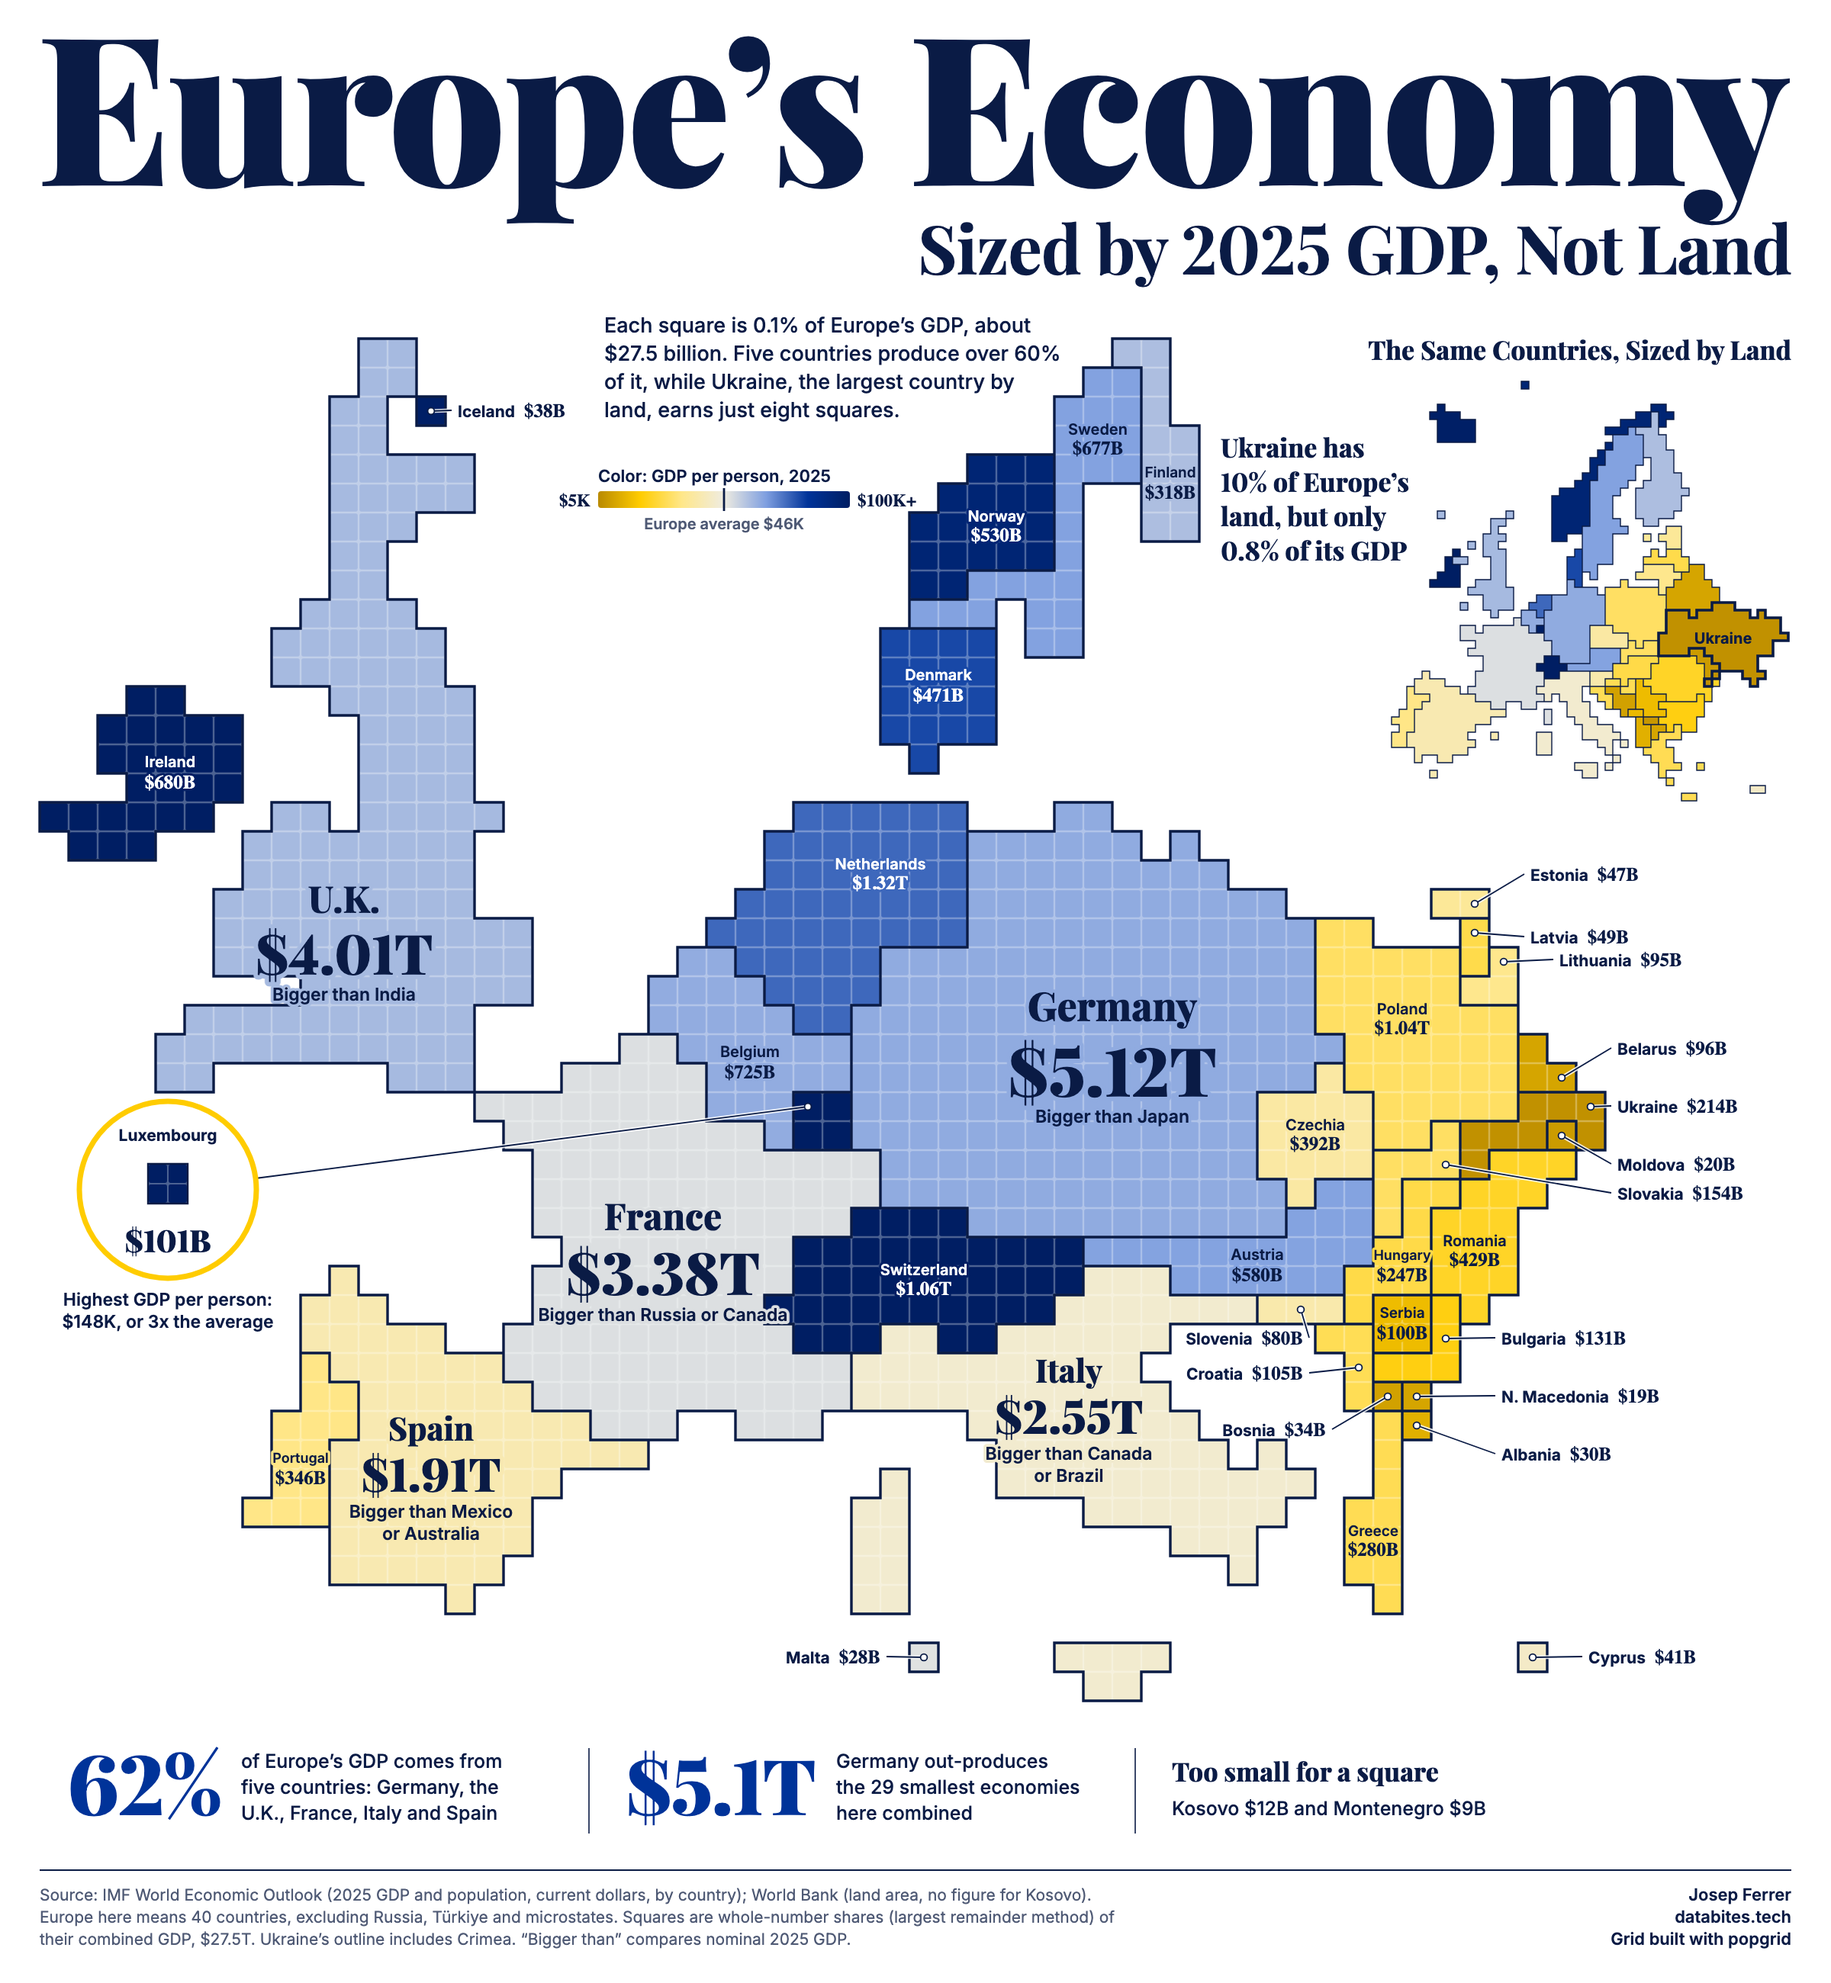
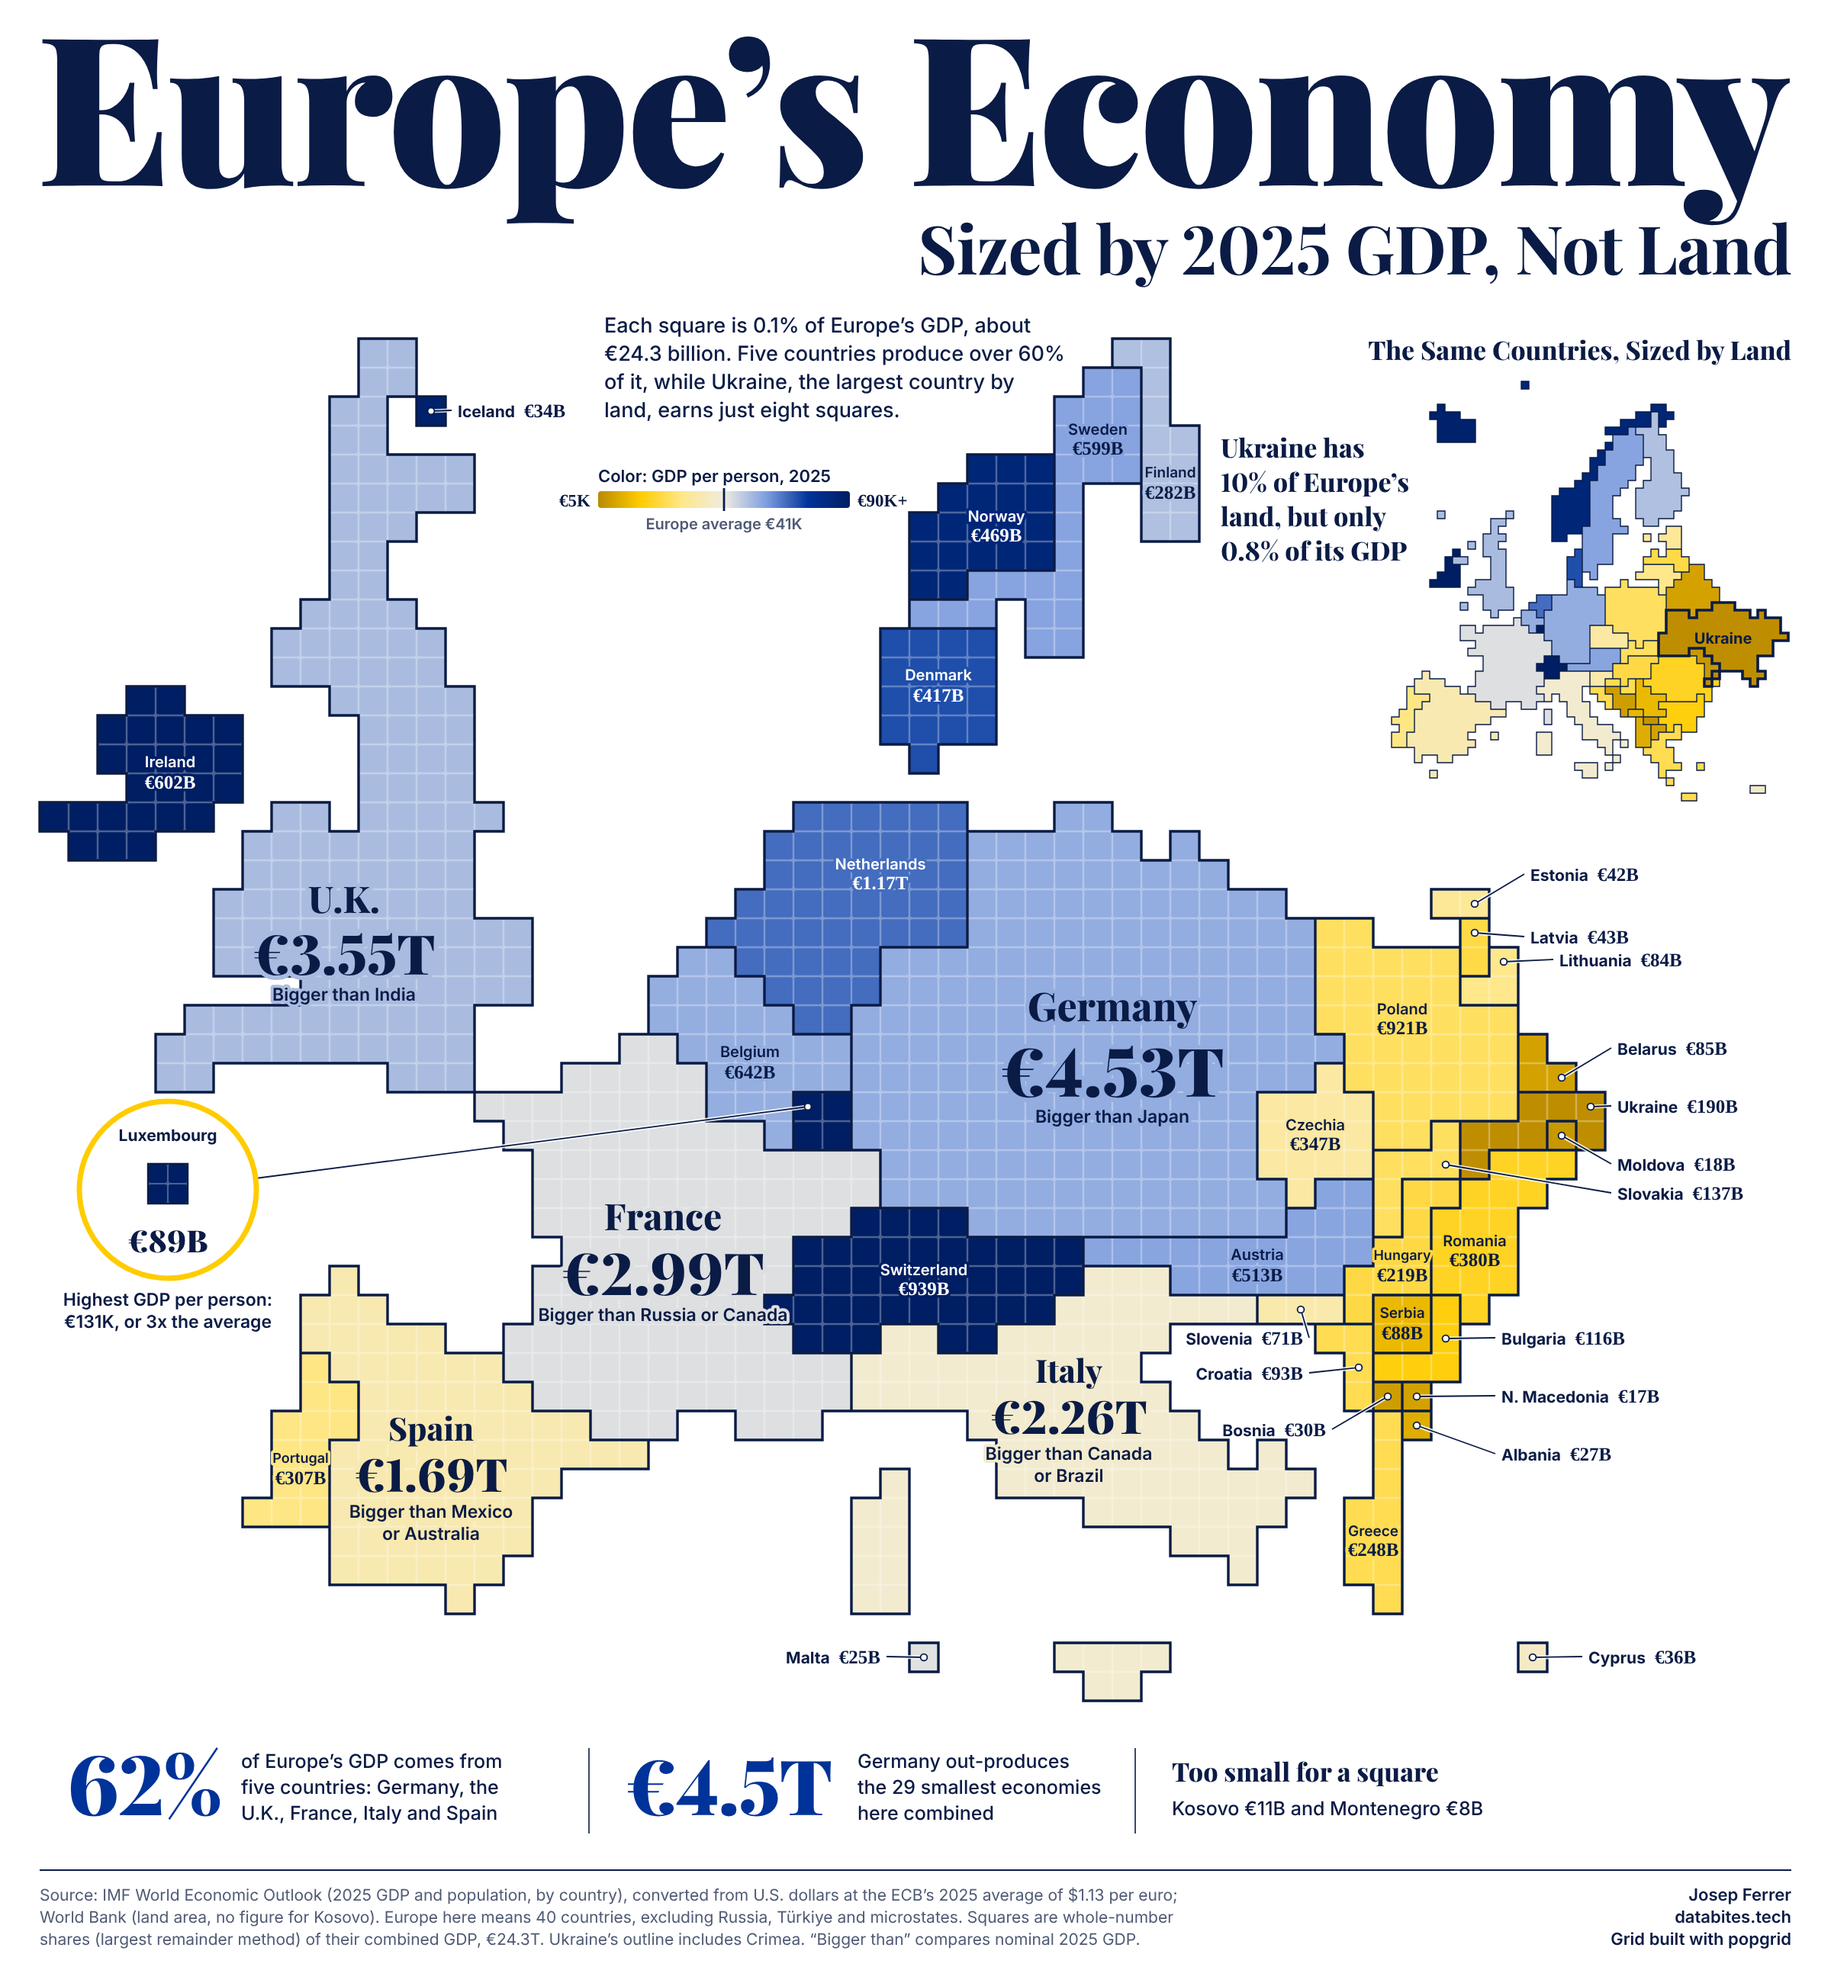
Final version of the europe-economy map

diff --git a/europe-economy-by-gdp/make_map.py b/europe-economy-by-gdp/make_map.py
@@ -5,7 +5,8 @@ Josep Ferrer, databites.tech
 
 Tiled map of 40 European countries built with popgrid: 1,000 squares, each one
 0.1% of their combined GDP. Square count shows GDP, color shows GDP per person,
-gold below the European average and blue above it.
+gold below the European average and blue above it. All amounts are in euros, converted
+from the IMF's U.S. dollar figures at the ECB's average exchange rate for 2025.
 
 Setup:
     pip install -r requirements.txt
@@ -17,13 +18,13 @@ Run:
     python make_map.py --out map.png --scale 1
 
 Data, committed so the published map stays reproducible:
-    data.csv       IMF GDP and population, World Bank land area, by country
+    data.csv       IMF GDP in U.S. dollars and population, World Bank land area, by country
     imf_2025.csv   IMF GDP for every country (checks the comparisons)
 
 Downloads (cached in .cache/ next to this script):
     Natural Earth boundaries, through popgrid
     npm    Playfair Display, Inter and Source Serif 4 (from Fontsource)
-    With --refresh, also the IMF and World Bank source files.
+    With --refresh, also the IMF, World Bank and ECB source files.
 
 The IMF revises its figures, so after --refresh check_claims() stops the script
 if a sentence on the graphic stops being true. Pass --skip-checks to render anyway.
@@ -54,7 +55,11 @@ URLS = {
     "imf_gdp.json": "https://www.imf.org/external/datamapper/api/v1/NGDPD?periods=2025",
     "imf_pop.json": "https://www.imf.org/external/datamapper/api/v1/LP?periods=2025",
     "wb_land.json": "https://api.worldbank.org/v2/country/all/indicator/AG.LND.TOTL.K2?format=json&per_page=400&date=2021",
+    "ecb_rate.csv": "https://data-api.ecb.europa.eu/service/data/EXR/A.USD.EUR.SP00.A?startPeriod=2025&endPeriod=2025&format=csvdata",
 }
+
+# ECB reference rate, 2025 annual average: U.S. dollars per euro.
+USD_PER_EUR = 1.129983
 
 FONTS = {
     "playfair-display": ("Playfair Display", "5.3.0", [(700, "normal"), (800, "normal"), (900, "normal")]),
@@ -133,7 +138,7 @@ def fetch_fonts():
 # DATA
 
 def load_countries(refresh=False):
-    """GDP and population (IMF, 2025) and land area (World Bank) by country."""
+    """GDP in euros and population (IMF, 2025) and land area (World Bank) by country."""
     if DATA_CSV.exists() and not refresh:
         table = pd.read_csv(DATA_CSV, keep_default_na=False, na_values=[""])
     else:
@@ -145,13 +150,16 @@ def load_countries(refresh=False):
         for code, (imf, name) in COUNTRIES.items():
             rows.append(dict(
                 code=code, name=name,
-                gdp=round(gdp[imf]["2025"] * 1e9),
+                gdp_usd=round(gdp[imf]["2025"] * 1e9),
                 pop=round(pop[imf]["2025"] * 1e6),
                 land_km2=land.get(code),  # the World Bank has no figure for Kosovo
             ))
         table = pd.DataFrame(rows)
         table.to_csv(DATA_CSV, index=False)
-    table["gdp"] = table.gdp.astype(float)
+        ecb = pd.read_csv(fetch("ecb_rate.csv")).OBS_VALUE.iloc[0]
+        if abs(ecb - USD_PER_EUR) > 1e-6:
+            raise SystemExit(f"The ECB rate is now {ecb}. Update USD_PER_EUR and the footer.")
+    table["gdp"] = table.gdp_usd.astype(float) / USD_PER_EUR
     table["share"] = table.gdp / table.gdp.sum()
     table["per_person"] = table.gdp / table["pop"]
     return table.sort_values("gdp", ascending=False).reset_index(drop=True)
@@ -232,7 +240,7 @@ def check_claims(countries, grids, refresh=False):
     total = countries.gdp.sum()
     average = total / countries["pop"].sum()
     imf_table = load_imf(refresh)
-    imf = lambda code: imf_table[code] * 1e9
+    imf = lambda code: imf_table[code] * 1e9 / USD_PER_EUR  # euros, at the same rate
     squares = Counter(s[0] for landmass in grids["gdp"] for s in landmass)
     land = countries.land_km2.sum()
     top5 = countries.iloc[:5]
@@ -246,8 +254,8 @@ def check_claims(countries, grids, refresh=False):
         "every country within one square of its share": all(
             abs(squares[r.code] - r.share * 1000) < 1 for r in countries.itertuples()
         ),
-        "a square is $27.5B": round(total / 1000 / 1e9, 1) == 27.5,
-        "combined GDP is $27.5T": round(total / 1e12, 1) == 27.5,
+        "a square is 24.3 billion euros": round(total / 1000 / 1e9, 1) == 24.3,
+        "combined GDP is 24.3 trillion euros": round(total / 1e12, 1) == 24.3,
         "top five are the named ones": set(top5.code) == {"DEU", "GBR", "FRA", "ITA", "ESP"},
         "top five are 62%": round(top5.share.sum() * 100) == 62,
         "Ukraine has eight squares": squares["UKR"] == 8,
@@ -255,18 +263,18 @@ def check_claims(countries, grids, refresh=False):
         "Ukraine is 10% of land": round(c.land_km2["UKR"] / land * 100) == 10,
         "Ukraine is 0.8% of GDP": round(c.share["UKR"] * 100, 1) == 0.8,
         "Germany beats 29 smallest": n_beaten == GERMANY_BEATS,
-        "Germany printed as $5.1T": 5.05e12 <= c.gdp["DEU"] < 5.15e12,
+        "Germany printed as 4.5 trillion euros": 4.45e12 <= c.gdp["DEU"] < 4.55e12,
         "Germany above Japan": c.gdp["DEU"] > imf("JPN"),
         "U.K. above India": c.gdp["GBR"] > imf("IND"),
         "France above Russia and Canada": c.gdp["FRA"] > max(imf("RUS"), imf("CAN")),
         "Italy above Canada and Brazil": c.gdp["ITA"] > max(imf("CAN"), imf("BRA")),
         "Spain above Mexico and Australia": c.gdp["ESP"] > max(imf("MEX"), imf("AUS")),
         "Luxembourg is highest per person": c.per_person.idxmax() == "LUX",
-        "Luxembourg is $148K per person": round(c.per_person["LUX"] / 1e3) == 148,
+        "Luxembourg is 131K euros per person": round(c.per_person["LUX"] / 1e3) == 131,
         "Luxembourg is about 3x the average": 2.9 < c.per_person["LUX"] / average < 3.3,
-        "average is $46K": round(average / 1e3) == 46,
+        "average is 41K euros": round(average / 1e3) == 41,
         "Kosovo and Montenegro get no square": squares["KOS"] == 0 and squares["MNE"] == 0,
-        "Kosovo is $12B and Montenegro $9B": round(c.gdp["KOS"] / 1e9) == 12 and round(c.gdp["MNE"] / 1e9) == 9,
+        "Kosovo is 11B euros and Montenegro 8B": round(c.gdp["KOS"] / 1e9) == 11 and round(c.gdp["MNE"] / 1e9) == 8,
         "all others get a square": all(squares[code] > 0 for code in c.index if code not in ("KOS", "MNE")),
         "no country is below the color scale": countries.per_person.min() >= PC_LOW,
         "the scale's centre is the average": abs(PC_MID - average) < 1,
@@ -289,7 +297,7 @@ EU_BLUE = "#003399"
 EU_GOLD = "#FFCC00"
 # Gold to pale to blue, with the European average at the middle stop
 RAMP = ["#B98A00", "#FFCC00", "#FFE78A", "#EFECE1", "#7F9FE0", "#003399", "#001E63"]
-PC_LOW, PC_MID, PC_HIGH = 5_000, 46_086, 100_000
+PC_LOW, PC_MID, PC_HIGH = 5_000, 40_785, 90_000
 GERMANY_BEATS = 29
 
 
@@ -385,7 +393,7 @@ def text_color(background):
 
 
 def money(value):
-    return f"${value / 1e12:.2f}T" if value >= 1e12 else f"${value / 1e9:.0f}B"
+    return f"\u20ac{value / 1e12:.2f}T" if value >= 1e12 else f"\u20ac{value / 1e9:.0f}B"
 
 
 def text(x, y, content, size, weight=700, family="sans", fill=INK, anchor="middle",
@@ -522,7 +530,7 @@ def header():
     ]
     out.append(lines(396, 218, [
         "Each square is 0.1% of Europe\u2019s GDP, about",
-        "$27.5 billion. Five countries produce over 60%",
+        "\u20ac24.3 billion. Five countries produce over 60%",
         "of it, while Ukraine, the largest country by",
         "land, earns just eight squares.",
     ], 13.5, 18.5))
@@ -534,11 +542,11 @@ def header():
         f'<rect x="{x}" y="{y}" width="{width}" height="11" rx="2" fill="url(#legend)"/>'
     )
     out.append(text(x, y - 6, "Color: GDP per person, 2025", 11, 600, "sans", INK, "start"))
-    out.append(text(x - 5, y + 10, "$5K", 11.5, 700, "num", INK, "end"))
-    out.append(text(x + width + 5, y + 10, "$100K+", 11.5, 700, "num", INK, "start"))
+    out.append(text(x - 5, y + 10, "\u20ac5K", 11.5, 700, "num", INK, "end"))
+    out.append(text(x + width + 5, y + 10, "\u20ac90K+", 11.5, 700, "num", INK, "start"))
     middle = x + width / 2
     out.append(f'<path d="M{middle} {y - 2}V{y + 13}" stroke="{INK}" stroke-width="1.4"/>')
-    out.append(text(middle, y + 25, "Europe average $46K", 10, 600, "sans", MUTED))
+    out.append(text(middle, y + 25, "Europe average \u20ac41K", 10, 600, "sans", MUTED))
     return "".join(out)
 
 
@@ -565,7 +573,7 @@ def luxembourg_magnifier(main, data, fill_of):
     out.append(text(cx, cy + 41, money(data["LUX"].gdp), 20, 900, "serif"))
     out.append(lines(cx, cy + radius + 18, [
         "Highest GDP per person:",
-        "$148K, or 3x the average",
+        "\u20ac131K, or 3x the average",
     ], 11.5, 14.5, weight=600, anchor="middle"))
     return "".join(out)
 
@@ -600,8 +608,8 @@ def bottom_band(data):
         text(44, y, "62%", 54, 900, "serif", EU_BLUE, "start", 'letter-spacing="-1"'),
         lines(158, y - 31, ["of Europe\u2019s GDP comes from", "five countries: Germany, the", "U.K., France, Italy and Spain"], 12.5, 17),
         f'<path d="M386 {y - 44}V{y + 12}" stroke="{INK}" stroke-width=".8"/>',
-        text(410, y, "$5.1T", 50, 900, "serif", EU_BLUE, "start", 'letter-spacing="-.6"'),
-        lines(548, y - 31, ["Germany out-produces", "the 29 smallest economies", "here combined"], 12.5, 17),
+        text(410, y, "\u20ac4.5T", 50, 900, "serif", EU_BLUE, "start", 'letter-spacing="-.6"'),
+        lines(562, y - 31, ["Germany out-produces", "the 29 smallest economies", "here combined"], 12.5, 17),
         f'<path d="M744 {y - 44}V{y + 12}" stroke="{INK}" stroke-width=".8"/>',
         text(768, y - 22, "Too small for a square", 17, 800, "serif", INK, "start"),
         lines(768, y, [f"Kosovo {money(data['KOS'].gdp)} and Montenegro {money(data['MNE'].gdp)}"], 12.5, 17),
@@ -613,9 +621,9 @@ def footer():
     return "".join([
         f'<path d="M26 {y}H1174" stroke="{INK}" stroke-width="1"/>',
         lines(26, y + 20, [
-            "Source: IMF World Economic Outlook (2025 GDP and population, current dollars, by country); World Bank (land area, no figure for Kosovo).",
-            "Europe here means 40 countries, excluding Russia, T\u00fcrkiye and microstates. Squares are whole-number shares (largest remainder method) of",
-            "their combined GDP, $27.5T. Ukraine\u2019s outline includes Crimea. \u201cBigger than\u201d compares nominal 2025 GDP.",
+            "Source: IMF World Economic Outlook (2025 GDP and population, by country), converted from U.S. dollars at the ECB\u2019s 2025 average of $1.13 per euro;",
+            "World Bank (land area, no figure for Kosovo). Europe here means 40 countries, excluding Russia, T\u00fcrkiye and microstates. Squares are whole-number",
+            "shares (largest remainder method) of their combined GDP, \u20ac24.3T. Ukraine\u2019s outline includes Crimea. \u201cBigger than\u201d compares nominal 2025 GDP.",
         ], 10.5, 14.5, weight=400, fill=MUTED),
         lines(1174, y + 20, ["Josep Ferrer", "databites.tech", "Grid built with popgrid"], 11, 14.5, weight=600, anchor="end"),
     ])

diff --git a/europe-economy-by-gdp/README.md b/europe-economy-by-gdp/README.md
@@ -2,7 +2,7 @@
 
 ![Europe's Economy, Sized by 2025 GDP, Not Land](output.png)
 
-A tiled map of 40 European countries with 1,000 squares, each one 0.1% of their combined GDP (about $27.5 billion). Square count shows GDP. Color shows GDP per person, gold below the European average and blue above it. A small land map of the same countries sits alongside for contrast.
+A tiled map of 40 European countries with 1,000 squares, each one 0.1% of their combined GDP (about €24.3 billion). Square count shows GDP. Color shows GDP per person, gold below the European average and blue above it. A small land map of the same countries sits alongside for contrast.
 
 The squares come from [popgrid](https://github.com/databites-tech/popgrid).
 
@@ -28,6 +28,7 @@ The script checks the claims on the graphic against the data and stops if one no
 ## Sources
 
 - [IMF World Economic Outlook](https://www.imf.org/en/publications/weo): 2025 GDP and population by country, current dollars
+- [European Central Bank](https://data.ecb.europa.eu/data/datasets/EXR/EXR.A.USD.EUR.SP00.A): 2025 average exchange rate, $1.13 per euro, used to convert every amount to euros
 - [World Bank](https://data.worldbank.org/indicator/AG.LND.TOTL.K2): land area, 2021 (no figure for Kosovo)
 - [Natural Earth](https://www.naturalearthdata.com/): boundaries
 
